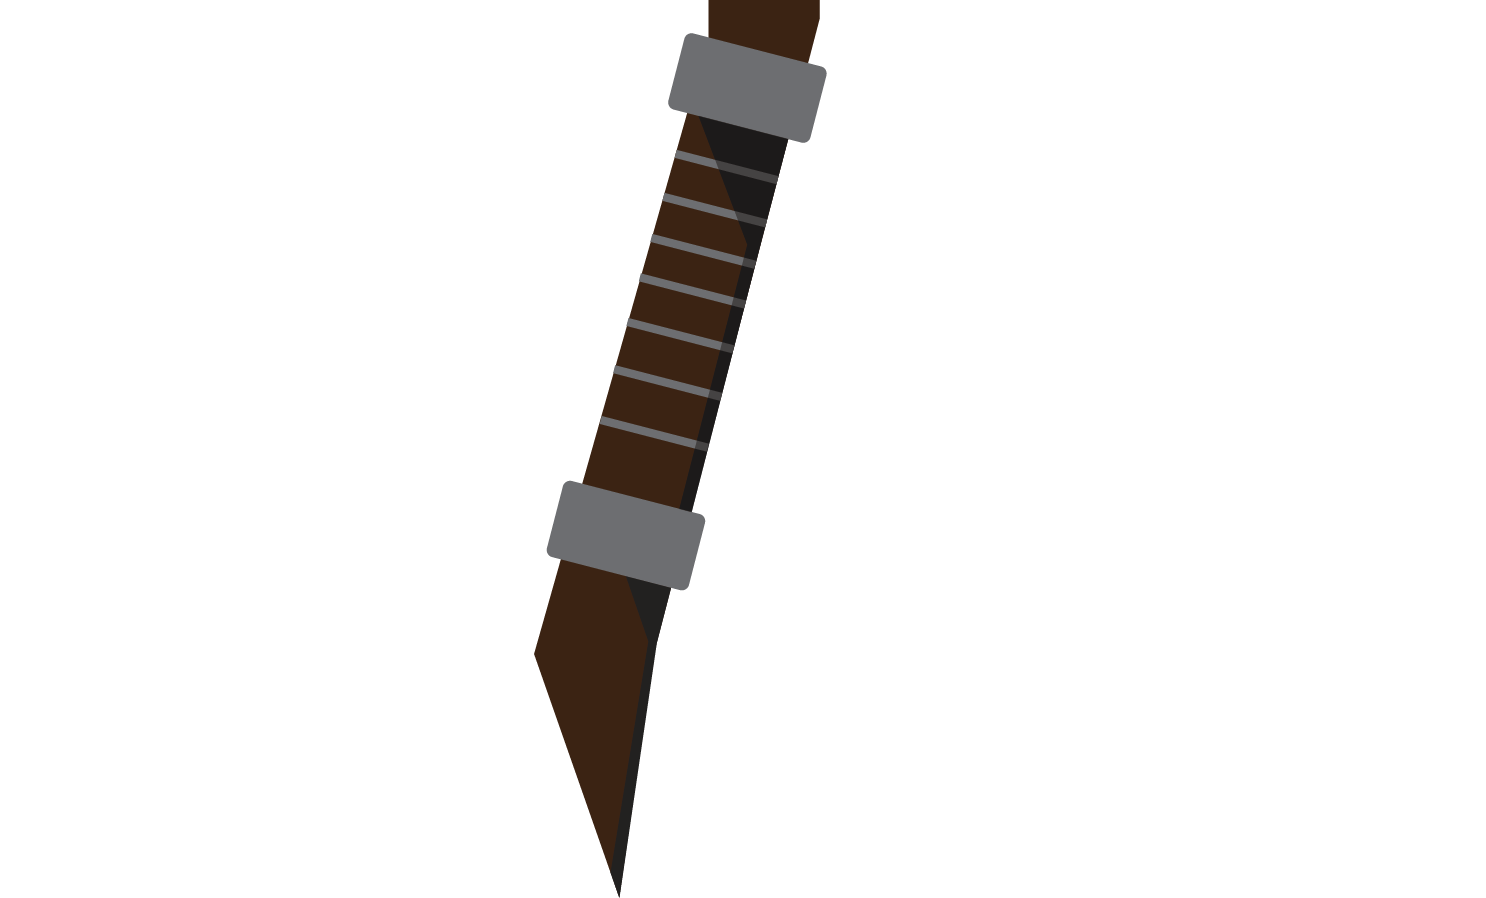
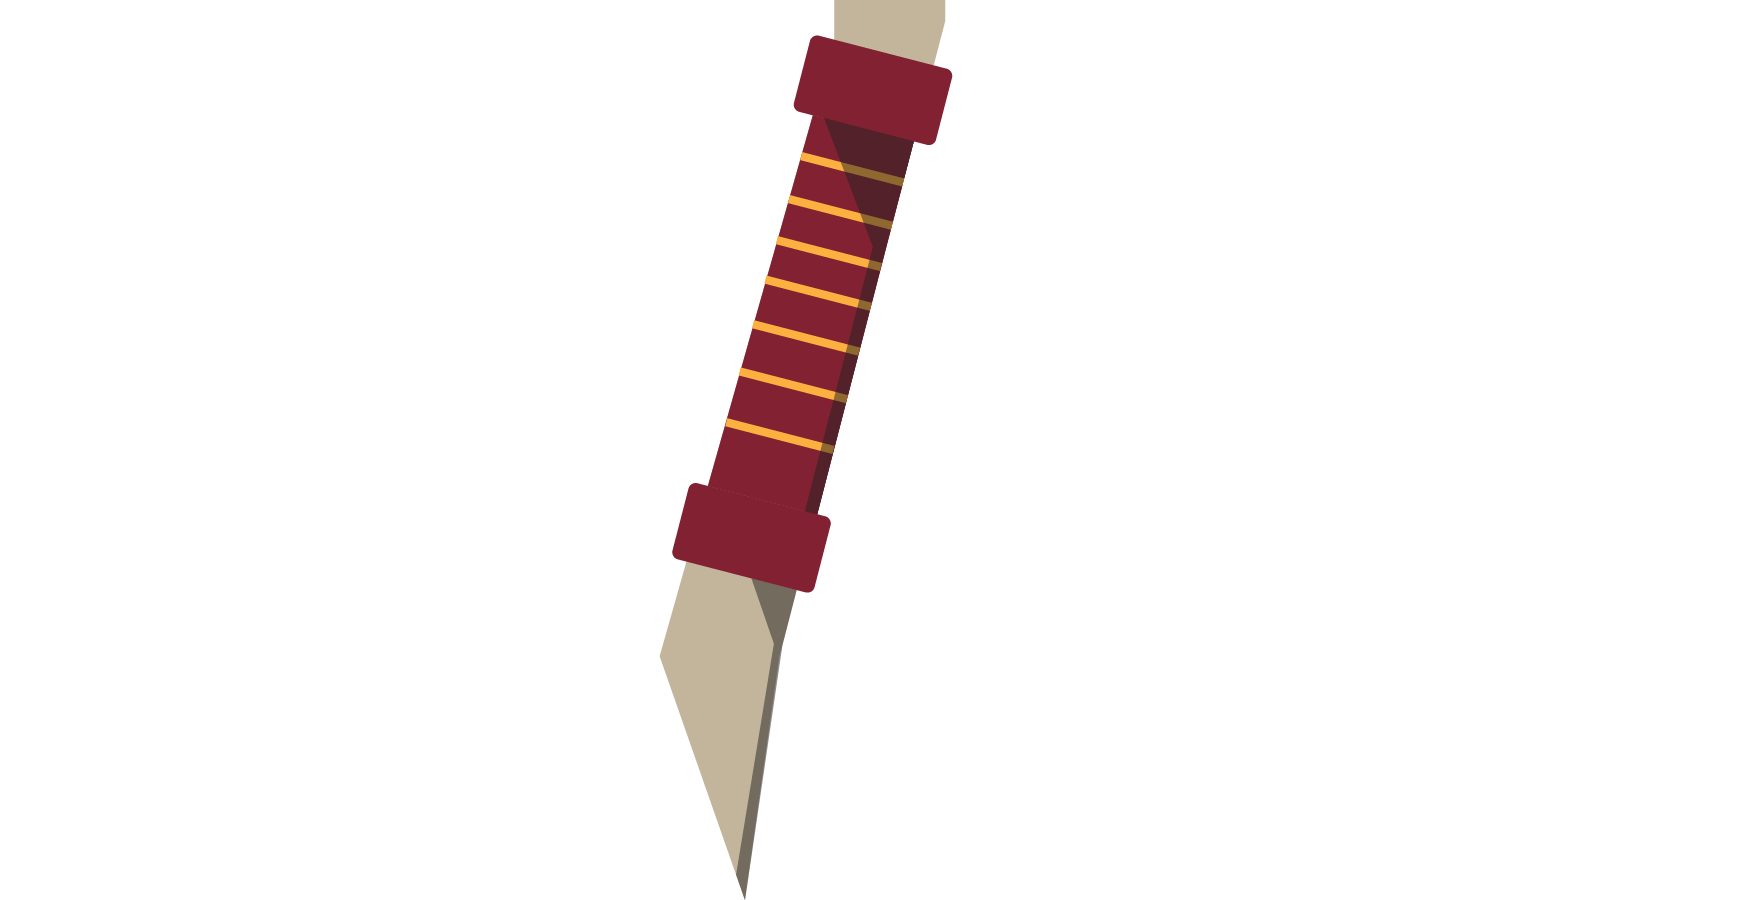
✨ feat: update weapon sprite

Changed region(s): [[0.3405, 0.0, 0.5572, 0.9978]]

diff --git a/src/player/weapon.rs b/src/player/weapon.rs
@@ -24,9 +24,10 @@ pub(super) fn plugin(app: &mut App) {
 }
 
 // offset in pixels to line up the weapon
-const OFFSET_FROM_BASE: u64 = 898;
-const OFFSET_FROM_EXTEND: u64 = 178;
-const EXTEND_SIZE: u64 = 595;
+const OFFSET_FROM_BASE: u64 = 900;
+const OFFSET_FROM_EXTEND: u64 = 604 - 551;
+const EXTEND_SIZE: u64 = 604;
+pub const WEAPON_SCALE_FACTOR: f32 = 0.07;
 const WEAPON_FOLLOW_OFFSET: Vec3 = Vec3::new(55.0, -35.0, -1.0);
 
 const INACTIVE_WEAPON_TRANSPARENCY: f32 = 0.4;
@@ -92,7 +93,7 @@ pub fn weapon(player_assets: &WeaponAssets) -> impl Bundle {
         Name::new("Weapon"),
         Weapon,
         Transform {
-            scale: Vec2::splat(0.050).extend(1.0),
+            scale: Vec2::splat(WEAPON_SCALE_FACTOR).extend(1.0),
             ..default()
         },
         Visibility::default(),
@@ -199,8 +200,8 @@ fn move_weapon_while_attack(
                 sprite.color = transparency;
             });
             following.rotation = Quat::from_rotation_z(Vec2::Y.angle_to(player.attack_direction));
-            following.scale =
-                attack.position.get_scale(player.attack_direction) * Vec2::splat(0.05).extend(1.0);
+            following.scale = attack.position.get_scale(player.attack_direction)
+                * Vec2::splat(WEAPON_SCALE_FACTOR).extend(1.0);
             following.translation.smooth_nudge(
                 &(transform.translation + attack.position.get_translate(player.attack_direction)),
                 10.0,
@@ -225,8 +226,8 @@ fn move_weapon_while_attack(
                 sprite.color = transparency;
             });
             following.rotation = Quat::from_rotation_z(Vec2::Y.angle_to(player.attack_direction));
-            following.scale =
-                attack.position.get_scale(player.attack_direction) * Vec2::splat(0.05).extend(1.0);
+            following.scale = attack.position.get_scale(player.attack_direction)
+                * Vec2::splat(WEAPON_SCALE_FACTOR).extend(1.0);
             following.translation.smooth_nudge(
                 &(transform.translation + attack.position.get_translate(player.attack_direction)),
                 10.0,

diff --git a/src/player/character.rs b/src/player/character.rs
@@ -120,7 +120,7 @@ pub fn player(
         Sprite {
             image,
             // this should fit on y. x is the variable part
-            custom_size: Some(Vec2::new(300., 225.0)),
+            custom_size: Some(Vec2::new(300., 275.0)),
             image_mode: SpriteImageMode::Scale(ScalingMode::FitCenter),
             texture_atlas,
             ..default()
